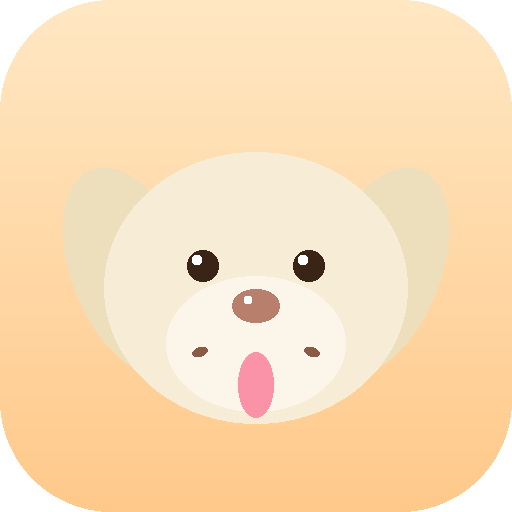
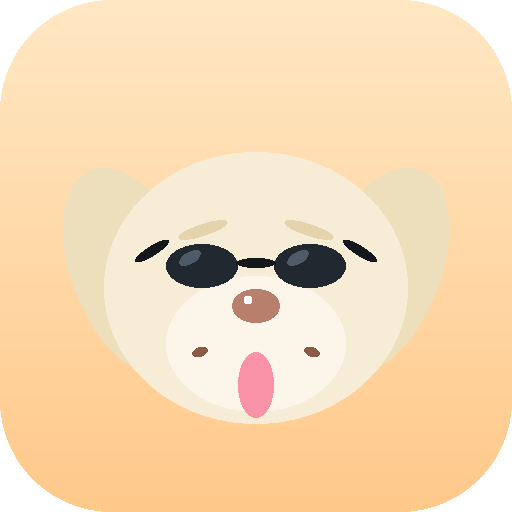
Fix header layout, sunglasses mascot, inviting entry screen
Redeploy of the latest research-ecosystem discovery-quest/ snapshot.

Claude-Session: https://claude.ai/code/session_01X5NQR6pgowF4xQN65t6nXu

Changed region(s): [[0.2812, 0.4062, 0.7188, 0.5625], [0.7188, 0.5, 0.75, 0.5312], [0.25, 0.5, 0.2812, 0.5312]]

diff --git a/css/styles.css b/css/styles.css
@@ -153,6 +153,9 @@ button {
 }
 
 .brand {
+  display: flex;
+  flex-direction: column;
+  align-items: center;
   text-align: center;
   margin-bottom: 40px;
 }
@@ -219,10 +222,24 @@ button {
 }
 
 .profile-chip-add {
-  color: var(--text-secondary);
   justify-content: center;
-  border-style: dashed;
-  font-weight: 600;
+  background: var(--brand);
+  border: 2px solid var(--brand);
+  color: var(--brand-ink);
+  font-size: 18px;
+  font-weight: 800;
+  animation: cta-glow 2.6s ease-in-out infinite;
+}
+
+.profile-chip-add:hover {
+  border-color: var(--brand);
+  filter: brightness(1.08);
+  transform: translateY(-2px) scale(1.01);
+}
+
+@keyframes cta-glow {
+  0%, 100% { box-shadow: 0 0 0 0 color-mix(in srgb, var(--brand) 45%, transparent); }
+  50% { box-shadow: 0 0 0 10px color-mix(in srgb, var(--brand) 0%, transparent); }
 }
 
 .profile-emoji {
@@ -235,6 +252,15 @@ button {
   width: 84px;
   height: 84px;
   margin-bottom: 12px;
+  animation: mascot-idle 3.2s ease-in-out infinite;
+  transform-origin: 50% 90%;
+}
+
+@keyframes mascot-idle {
+  0%, 100% { transform: rotate(0deg) translateY(0); }
+  25% { transform: rotate(-4deg) translateY(-2px); }
+  50% { transform: rotate(0deg) translateY(0); }
+  75% { transform: rotate(4deg) translateY(-2px); }
 }
 
 .onboarding {
